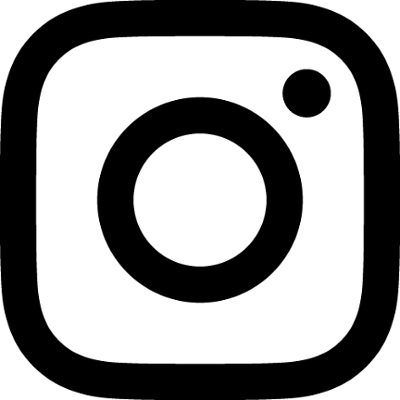
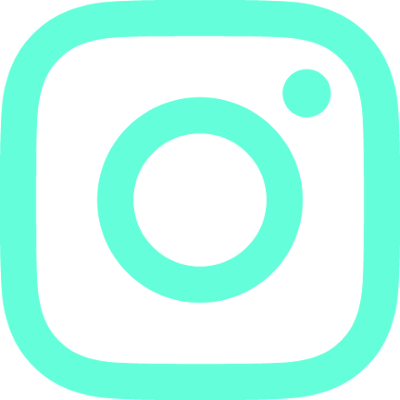
wip

diff --git a/styles/header.css b/styles/header.css
@@ -16,42 +16,49 @@
 .right-section {
     display: flex;
     justify-content: flex-end;
-    margin-right: 20px;
+    align-items: center;
+    transition: justify-content 10s ease;
+    /*Up for debate*/
+    margin-right: 30px;
 }
+
+@media screen and (max-width: 600px) {
+    .right-section {
+      justify-content: center;
+    }
+  }
 
 .header {
     width: 100%;
     display: grid;
-    grid-template-columns: 41px 1fr 100px;
-    column-gap: 20px;
+    grid-template-columns: 1fr 10fr 1fr;
+    column-gap: 40px;
 }
 
 .header-link {
-    margin-left: 20px;
+    margin-left: 30px;
+    border-radius: 2px;
 }
 
-.header-link,
 .resume-link {
     padding-left: 18px;
     padding-right: 18px;
-    border-radius: 2px;
-    flex-direction: row;
+    border-style: solid;
+    border-color: rgb(100,255,218);
+    border: 2px solid rgb(100,255,218);
+    border-radius: 4px;
+    transition: background-color 0.55s, border-radius 0s;
     background-color: rgba(0,0,0,0);
     transition: background-color 0.55s;
 }
 
 .resume-section {
-    display: flex;
+    display: inline-flex;
+    justify-content: flex-end;
     align-items: center;
-    border-style: solid;
-    border-color: rgb(100,255,218);
-    border: 2px solid rgb(100,255,218);
-    border-radius: 4px;
-    transition: background-color 0.55s;
 }
 
-.header-link:hover,
-.resume-section:hover {
+.resume-link:hover {
     background-color: rgb(235,235,235,0.5);
     cursor: pointer;
 }

diff --git a/index.html b/index.html
@@ -23,20 +23,18 @@
                 <img class="logo" src="images/logo2.png" onclick="window.location.href='index.html';">
             </div>
             <div class="right-section">
-                <div class="header-link" onclick="window.location.href='about.html';">
-                    <p>About</p>
+                <div class="header-link">
+                    <a href="https://github.com/DeepThePatel" target="_blank"><img src="images/github.png" title="GitHub" width="30px" height="30px"></a>
                 </div>
-                <div class="header-link" onclick="window.location.href='experience.html';">
-                    <p>Experience</p>
-                </div>
-                <div class="header-link" onclick="window.location.href='socials.html';">
-                    <p >Socials</p>
+                <div class="header-link">
+                    <a href="https://www.instagram.com/dc4.deep/" target="_blank"><img src="images/instagram.png" title="Instagram" width="30px" height="30px"></a>
                 </div>
             </div>
             <div id="pdfContainer" class="resume-section">
                 <div class="resume-link" onclick="window.location.href='Resume.pdf';">
                     <p>Resume</p>
                 </div>
+            </div>
         </div>
 
         <div class="content">

diff --git a/script.js b/script.js
@@ -1,9 +1,12 @@
+//RESUME
 document.addEventListener("DOMContentLoaded", function () {
-    const pdfContainer = document.getElementById("pdfContainer");
-  
-    pdfContainer.addEventListener("click", function () {
-      const pdfUrl = "Resume.pdf";
-      //Open PDF in new window
-      window.open(pdfUrl, "_blank");
-    });
+  const pdfContainer = document.getElementById("pdfContainer");
+
+  pdfContainer.addEventListener("click", function () {
+    const pdfUrl = "Resume.pdf";
+    //Open PDF in new window
+    window.open(pdfUrl, "_blank");
   });
+});
+
+const flexContainer = document.querySelector(".right-section");

diff --git a/styles/general.css b/styles/general.css
@@ -4,9 +4,9 @@
 }
 
 body {
-    margin-top: 15px;
-    margin-left: 30px;
-    margin-right: 40px;
+    margin-top: 30px;
+    margin-left: 50px;
+    margin-right: 50px;
     background-color: rgb(16, 25, 45);
     font-family: 'Inter', Arial;
     /* color: aquamarine; */
